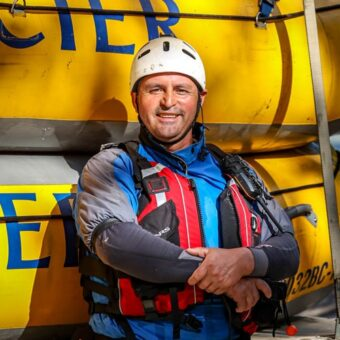
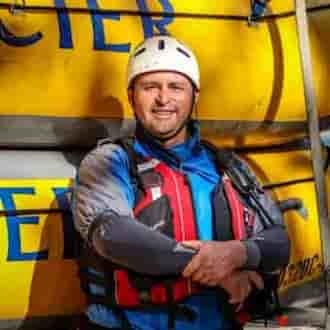
con

diff --git a/wwr/contact.html b/wwr/contact.html
@@ -24,12 +24,13 @@
             <a href="about.html">About Us</a>
             <a href="trips.html">Trips</a>
             <a href="contact.html">Contact Us</a>
-        </nav>
+        </nav>        
     </header>
 
     <main class="contact">
         
         <div class="employ">
+            <h1>Exciting Expeditions</h1>
             <figure>
                 <img src="images/employ2.jpg" alt="employ2">
                 <figcaption>
@@ -72,7 +73,7 @@
             <div class="map">
                 <iframe
                     src="https://www.google.com/maps/embed?pb=!1m14!1m12!1m3!1d5611.222313654618!2d-72.12202001177164!3d-13.305834690526082!2m3!1f0!2f0!3f0!3m2!1i1024!2i768!4f13.1!5e0!3m2!1ses!2spe!4v1750117892830!5m2!1ses!2spe"
-                    width="400" height="400" allowfullscreen="" loading="lazy"
+                    width="300" height="300" allowfullscreen="" loading="lazy"
                     referrerpolicy="no-referrer-when-downgrade"></iframe>
             </div>
         </article>
@@ -94,18 +95,22 @@
                 <legend>Questions</legend>
 
                     <div class="form-item column1">
-                        <label for="purpose">Purpose</label>
-                        <select id="purpose" name="purpose">
-                            <option value="general_inquiry">General Inquiry</option>
-                            <option value="reservation_question">Reservation Question</option>
-                            <option value="website_suggestion">Website Suggestion</option>
-                        </select>
+                        <p>Purpose:</p>
+                        <label>
+                            <input type="radio" name="purpose" value="general-inquiry" checked> Reservation Question
+                        </label><br>
+                        <label>
+                            <input type="radio" name="purpose" value="reservation-question" checked> Reservation Question
+                        </label><br>
+                        <label>
+                            <input type="radio" name="purpose" value="website-suggestion" checked> Website Suggestion
+                        </label><br>
                     </div>
 
                     <label for="feedback">Write your question here:</label>
                     <textarea id="feedback" name="feedback" rows="4" placeholder="Hi! write your questions here"></textarea>
                         
-                    <div class="form-item column1">
+                    <div class="form-item column3">
                         <label for="pet">Please subscribe me to the monthly newsletter</label>
                         <input type="checkbox" id="pet" name="pet">
                     </div>    
@@ -127,7 +132,7 @@
                 <img src="images/x_elon.png" alt="X">
             </a>
             <a href="https://instagram.com/">
-                <img src="images/instagram.png" alt="Instagram">
+                <img src="images/instagram.jpg" alt="Instagram">
             </a>
         </nav>
 

diff --git a/wwr/styles/rafting.css b/wwr/styles/rafting.css
@@ -198,14 +198,21 @@ footer p{
     grid-template-columns:  1fr 1fr;
 }
 
-.employ{
-    grid-column: 1/3;
+.employ {
+    display: grid;
+    grid-template-columns: repeat(3, 1fr);
     padding: 10px;
     margin-top: 30px;
+    grid-column: 1/-1;
 }
 
-.contact h1{
-    margin: 5px auto
+.employ h1{
+    grid-column: 1 / -1;
+    text-align: center;
+    margin-bottom: 30px;
+    font-family: var(--heading-font);
+    color: var(--accent2-color)
+    
 }
 
 /*sect1 Information*/
@@ -228,7 +235,7 @@ footer p{
 
 .map iframe{
     width: 100%;
-    max-width: 500px;
+    max-width: 300px;
     height:300px;
     border: 0;
     border-radius: 10px;
@@ -237,21 +244,15 @@ footer p{
 
 /*sect0 employ*/
 
-.employ{
-    display: grid;
-    grid-auto-flow: column;
-    justify-items: center;
-    gap: 20px;
-}
-
 .employ img{
-    height: 240px;
+    height: 200px;
     width: 100%;
-    max-width: 240px;
+    max-width: 200px;
 }
 
 figcaption{
-    color: #222;
+    color: var(--secundary-color);
+    font-size: 0.8rem;
 }
 
 .contact figure{
@@ -335,13 +336,31 @@ button:hover {
     align-items: center;
 }
 
-.column1{
-    grid-template-columns: 3fr 1fr;
-    margin: 0.5rem 0;
+.column1 p{
+    color: #fff;
+    grid-column: 1/3;
+    text-align: left;
+    font-size: 0.9rem;
+    padding: 0px;
+}
+
+.column1 {
+    grid-template-columns: 2fr 1fr;
+    padding: 0px 0px 20px;
+}
+
+.column1 label{
+    text-align: left;
+    
 }
 
 .column2 {
     grid-template-columns: 1fr 2fr;
+}
+
+.column3{
+    grid-template-columns: 3fr 1fr;
+    margin: 0.5rem 0;
 }
 
 .wireframe{

diff --git a/wwr/about.html b/wwr/about.html
@@ -89,7 +89,7 @@
                 <img src="images/x_elon.png" alt="X">
             </a>
             <a href="https://instagram.com/">
-                <img src="images/instagram.png" alt="Instagram">
+                <img src="images/instagram.jpg" alt="Instagram">
             </a>
         </nav>
 
